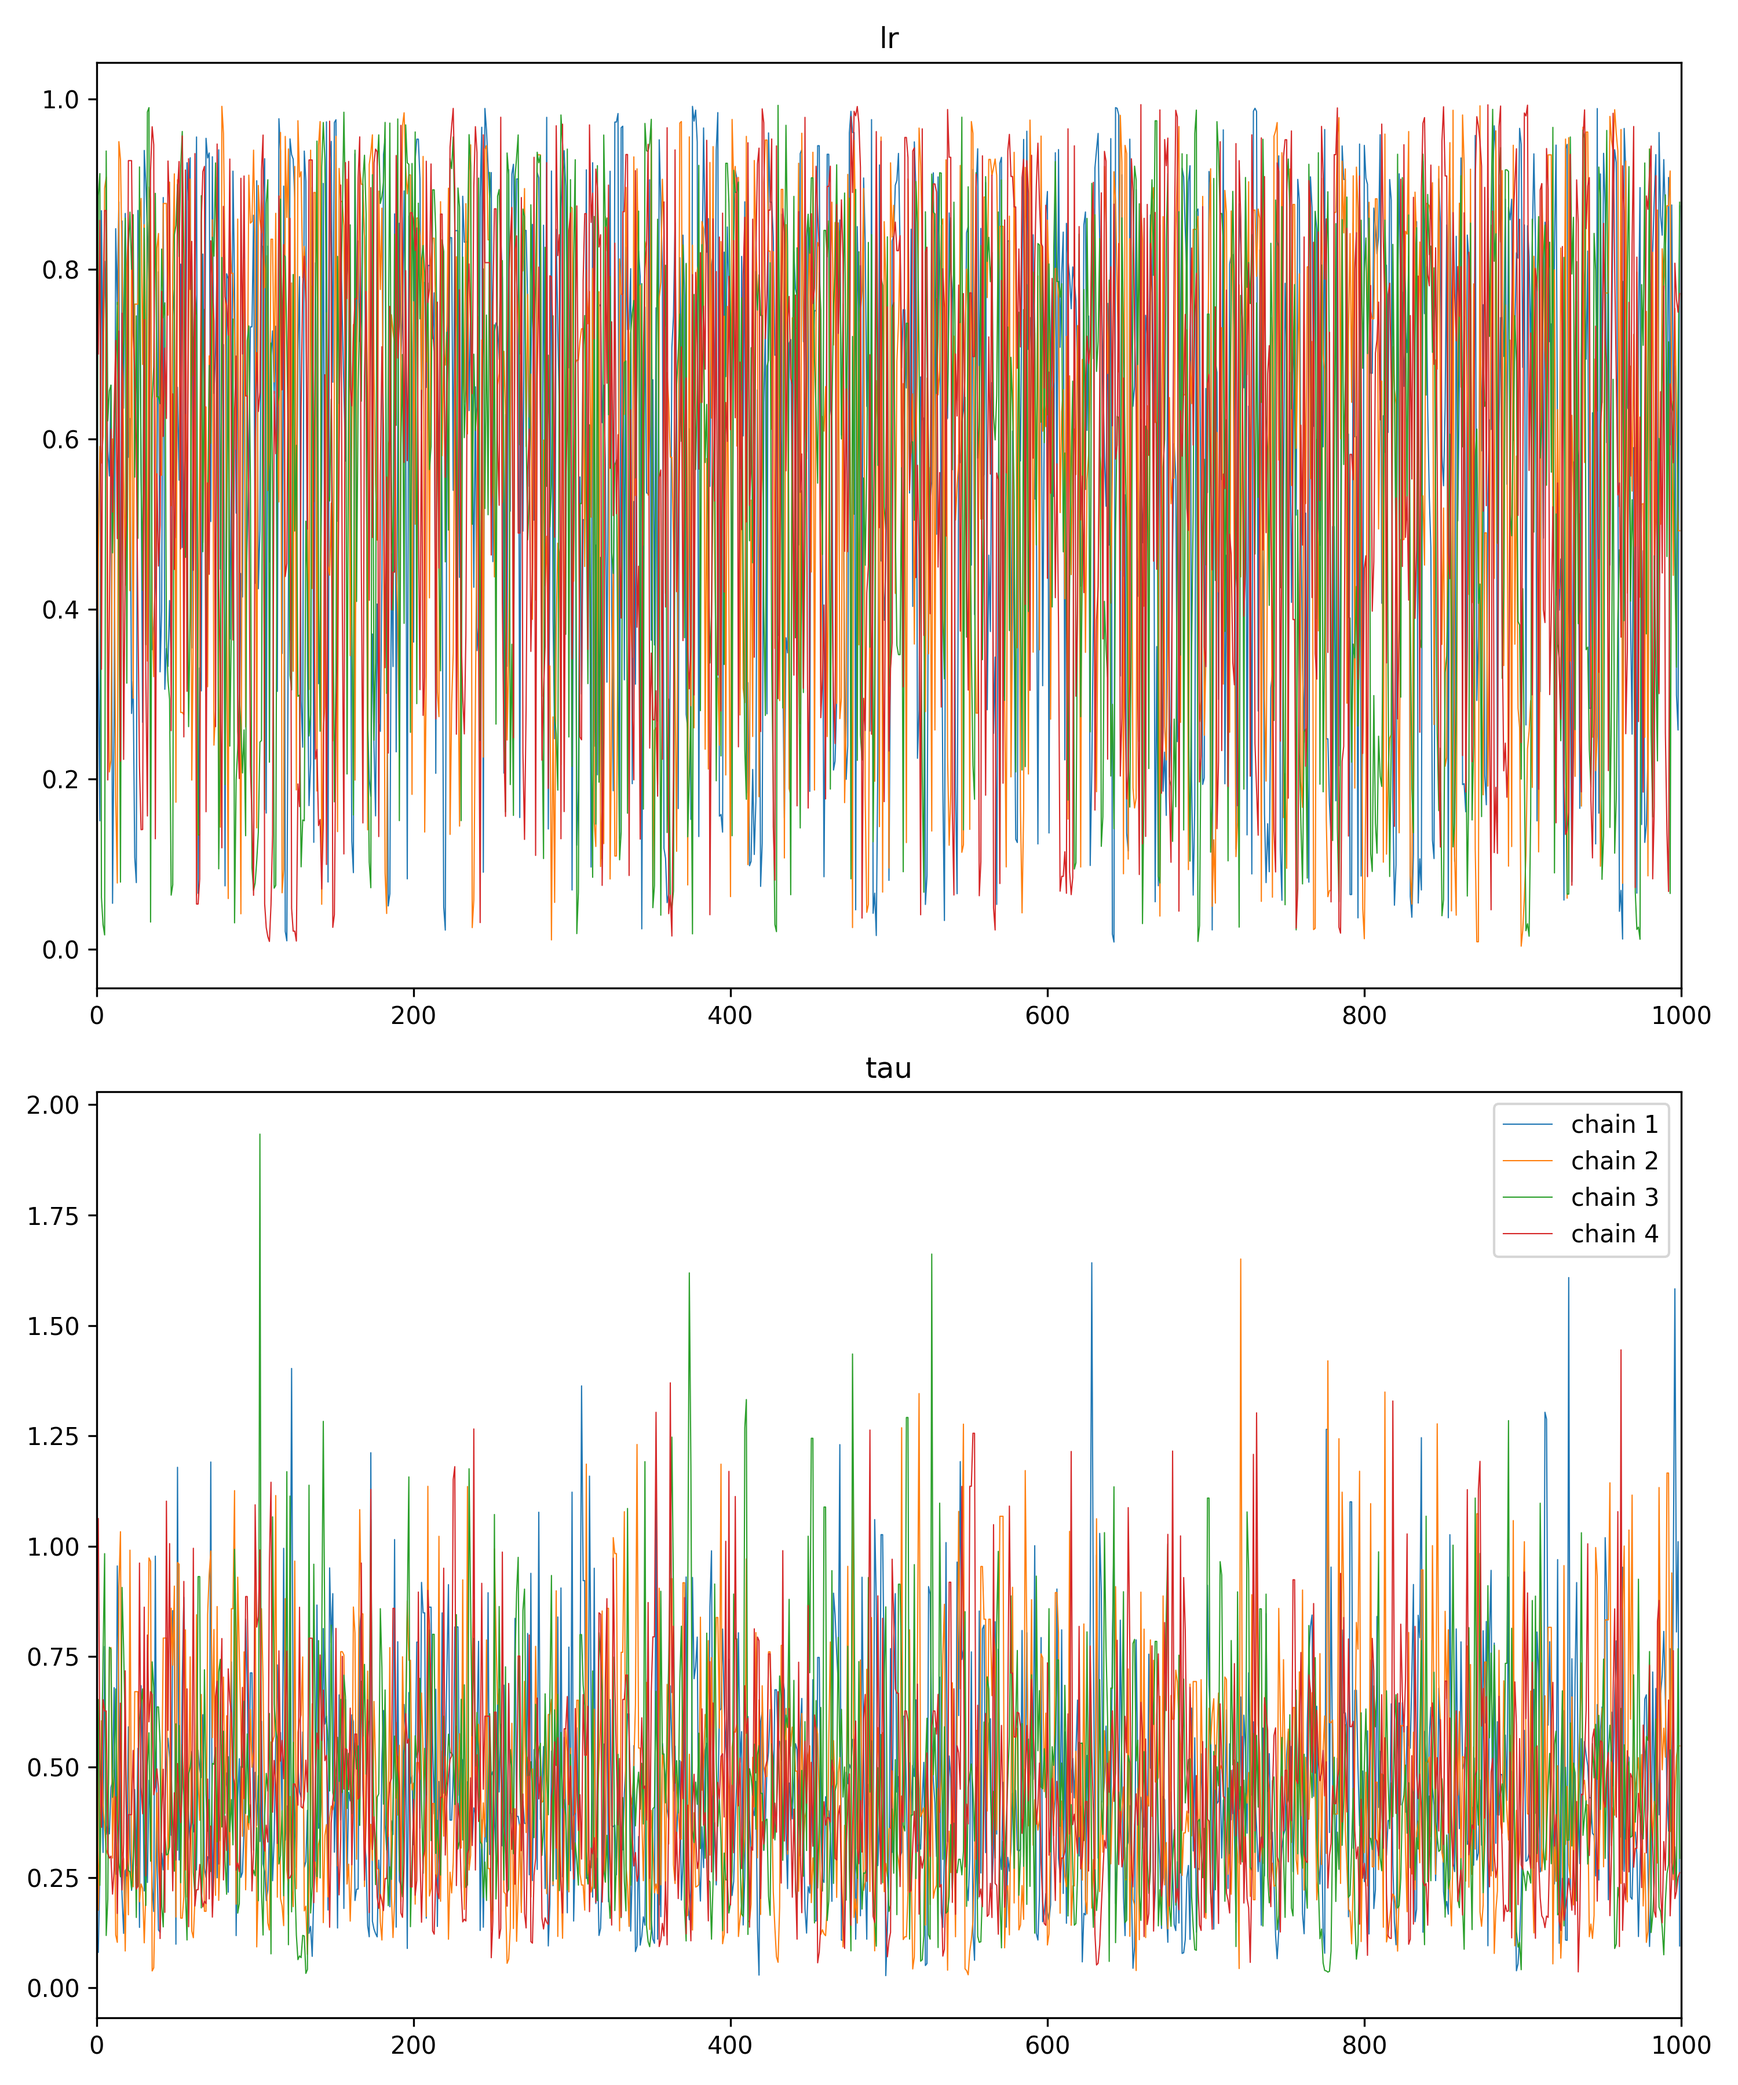
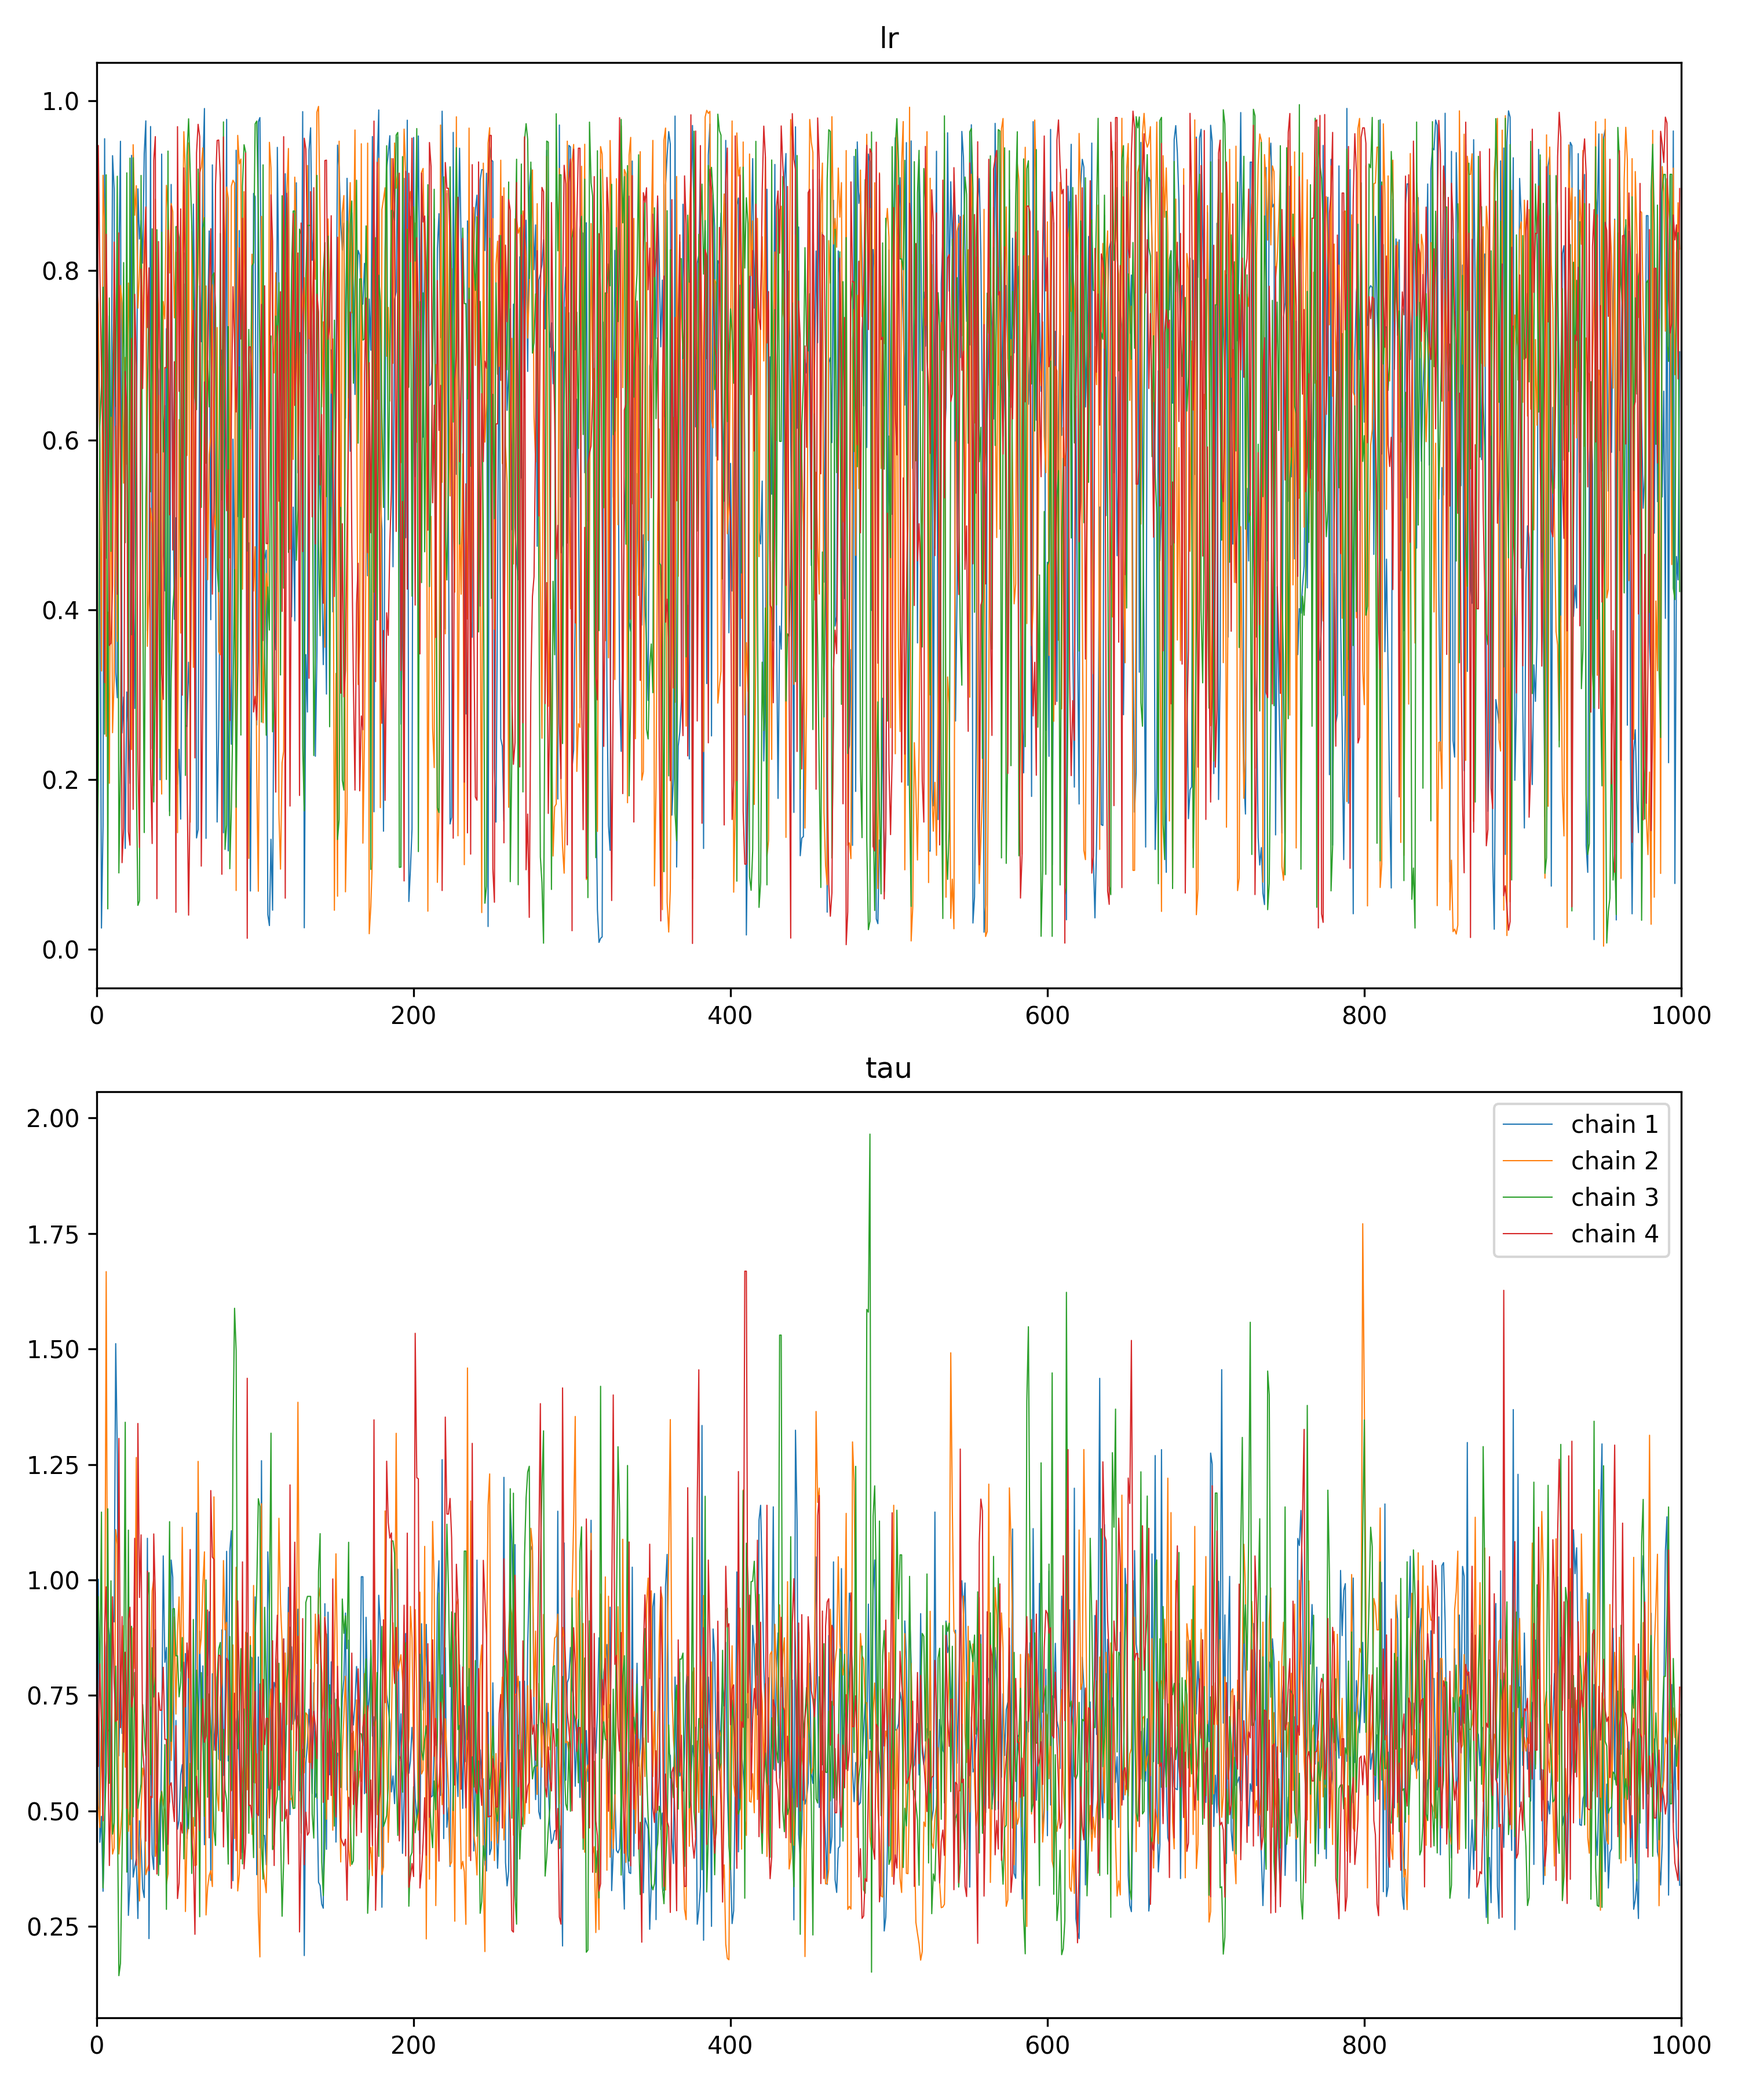
change sd for tau

diff --git a/src/recover.py b/src/recover.py
@@ -27,7 +27,7 @@ if __name__ in "__main__":
             "outcomes" : data["reward"].astype("int").values,
             "choices" : data["seeker_choice"].astype("int").values,
             "prior_sd_lr": 1.5,
-            "prior_sd_tau": 1,
+            "prior_sd_tau": 0.5,
         }
 
         # fit model
